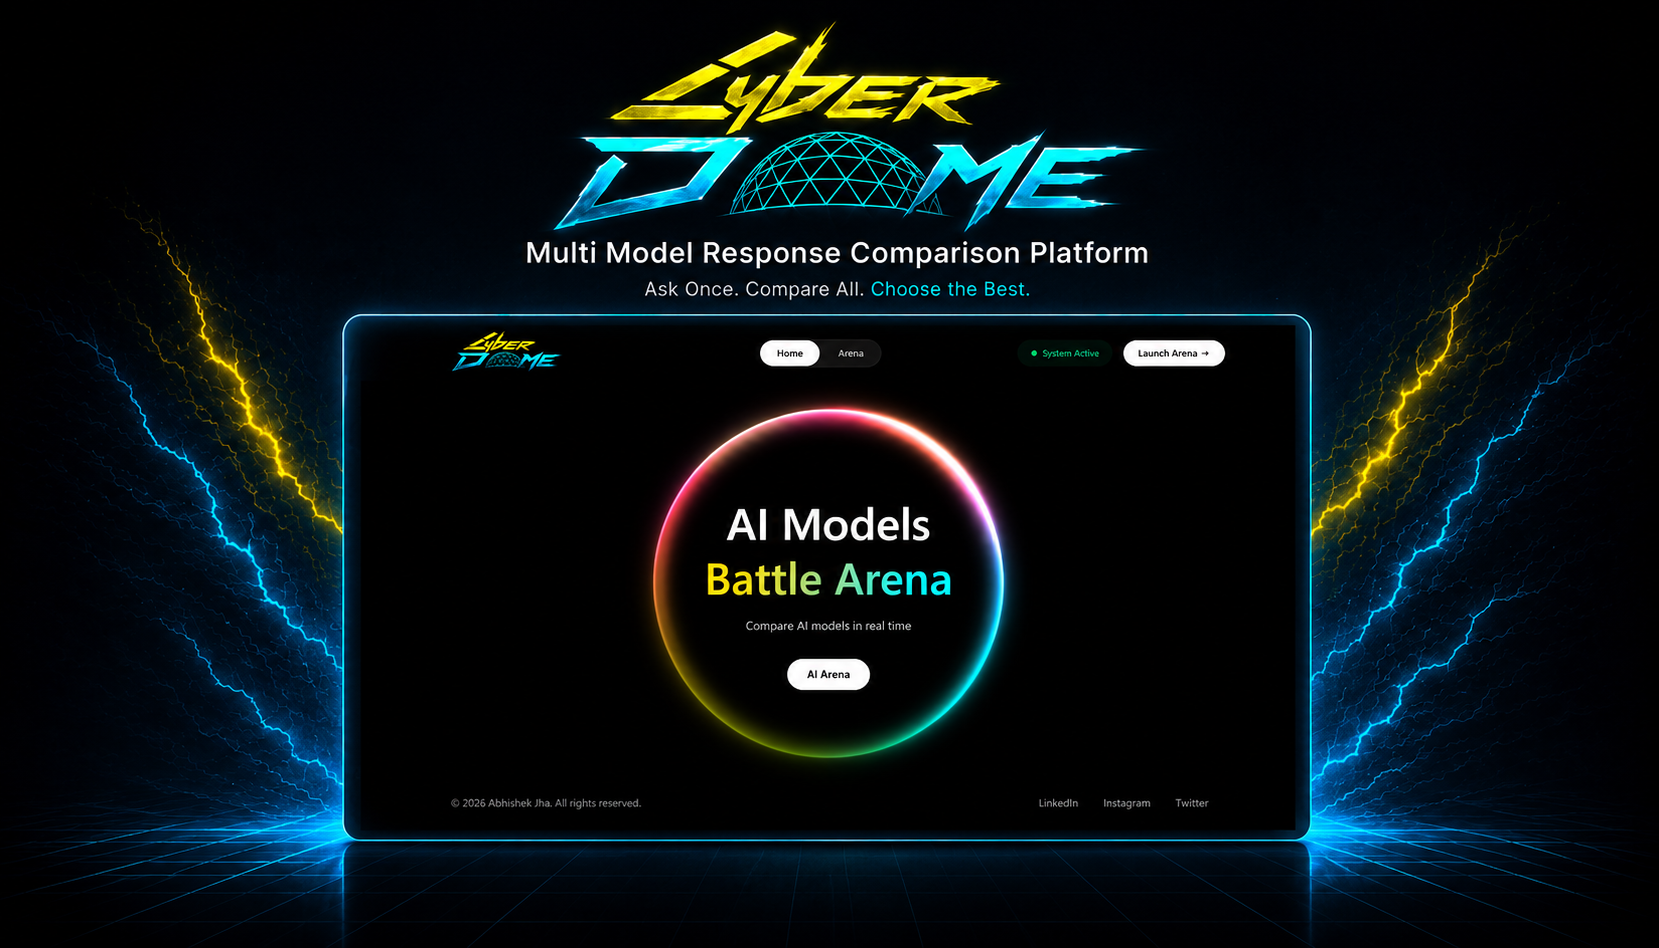
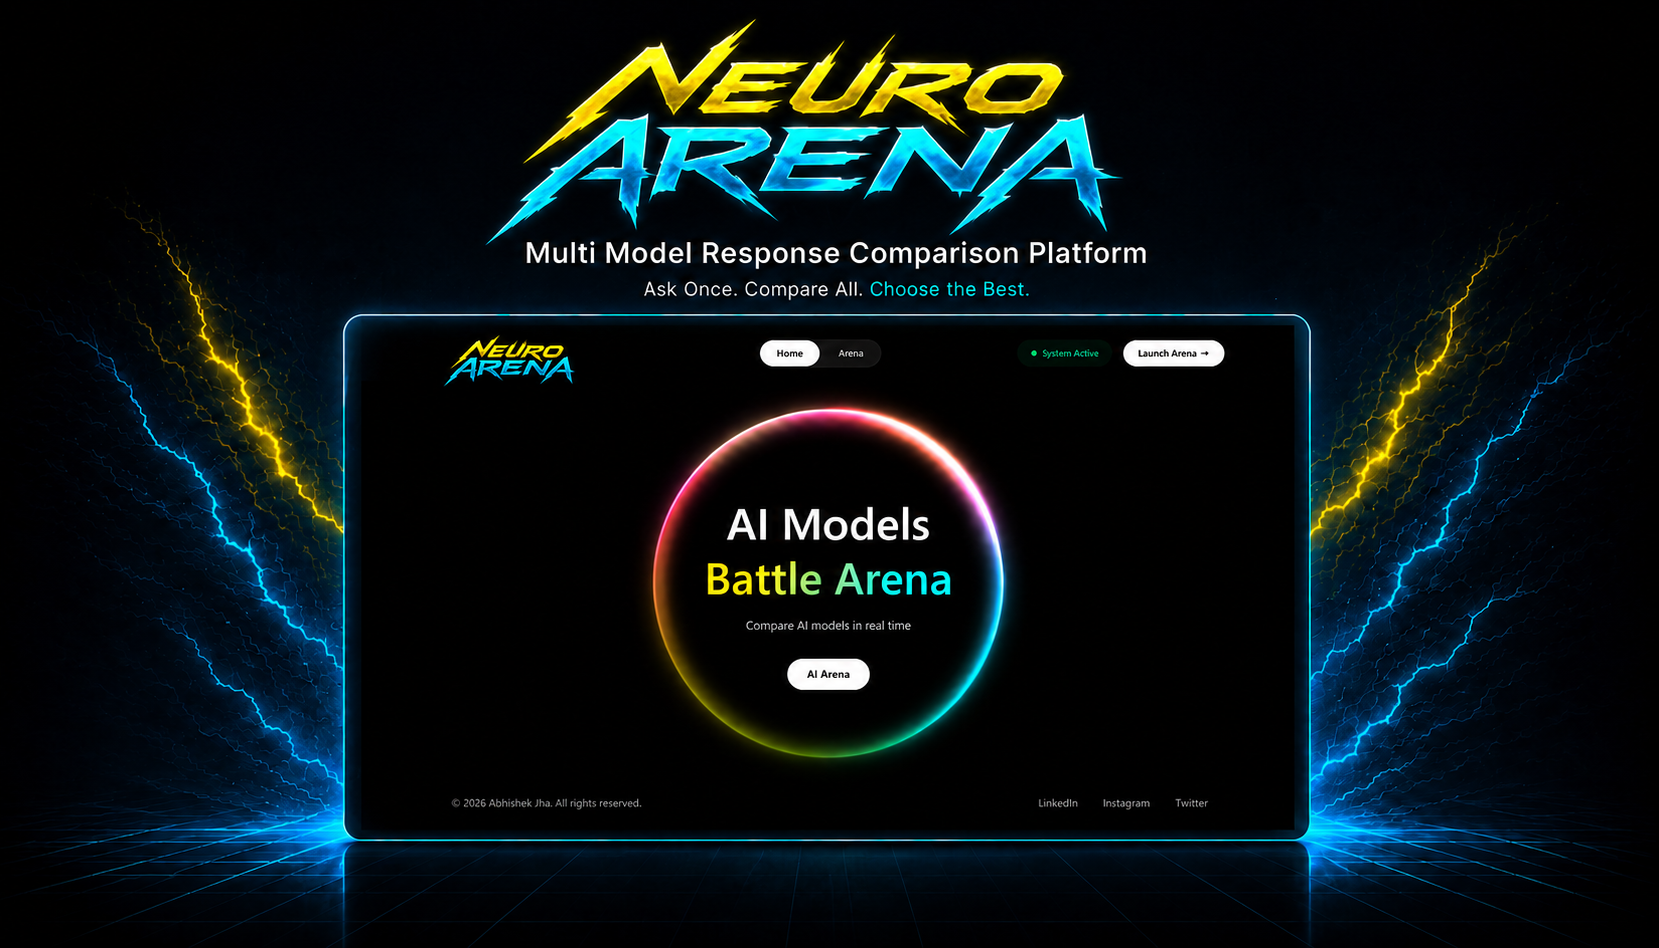
Added new feature

diff --git a/lib/data.ts b/lib/data.ts
@@ -6,7 +6,7 @@ export const projects: Project[] = [
   {
     id: "3",
 
-    title: "Real Time Emotion Aware Music Player",
+    title: " Mindtunes - Real Time Emotion Aware Music Player",
 
     description:
       "AI-powered music player that detects user emotions through facial expressions and recommends songs in real time.",
@@ -27,7 +27,7 @@ export const projects: Project[] = [
 
     image: "/music_player.png",
 
-    liveUrl: "https://moodify-ai-music-player.vercel.app/",
+    liveUrl: "https://mindtunes.vercel.app/",
 
     githubUrl: "https://github.com/abhishekjha193/Moodify-ai-music-player",
 
@@ -38,7 +38,7 @@ export const projects: Project[] = [
   {
     id: "1",
 
-    title: "Cyber Dome - AI Model Arena Plateform ",
+    title: "NeuroArena - Multi-Model Response Evaluation Platform",
 
     description:
       "LLM comparison platform to evaluate and compare responses from multiple AI models in real time ",
@@ -58,7 +58,7 @@ export const projects: Project[] = [
 
     image: "/ai_model.png",
 
-    liveUrl: "https://cyberdome.vercel.app/",
+    liveUrl: "https://neuroarena.vercel.app/",
 
     githubUrl: "https://github.com/abhishekjha193/AI_Model_Arena",
 